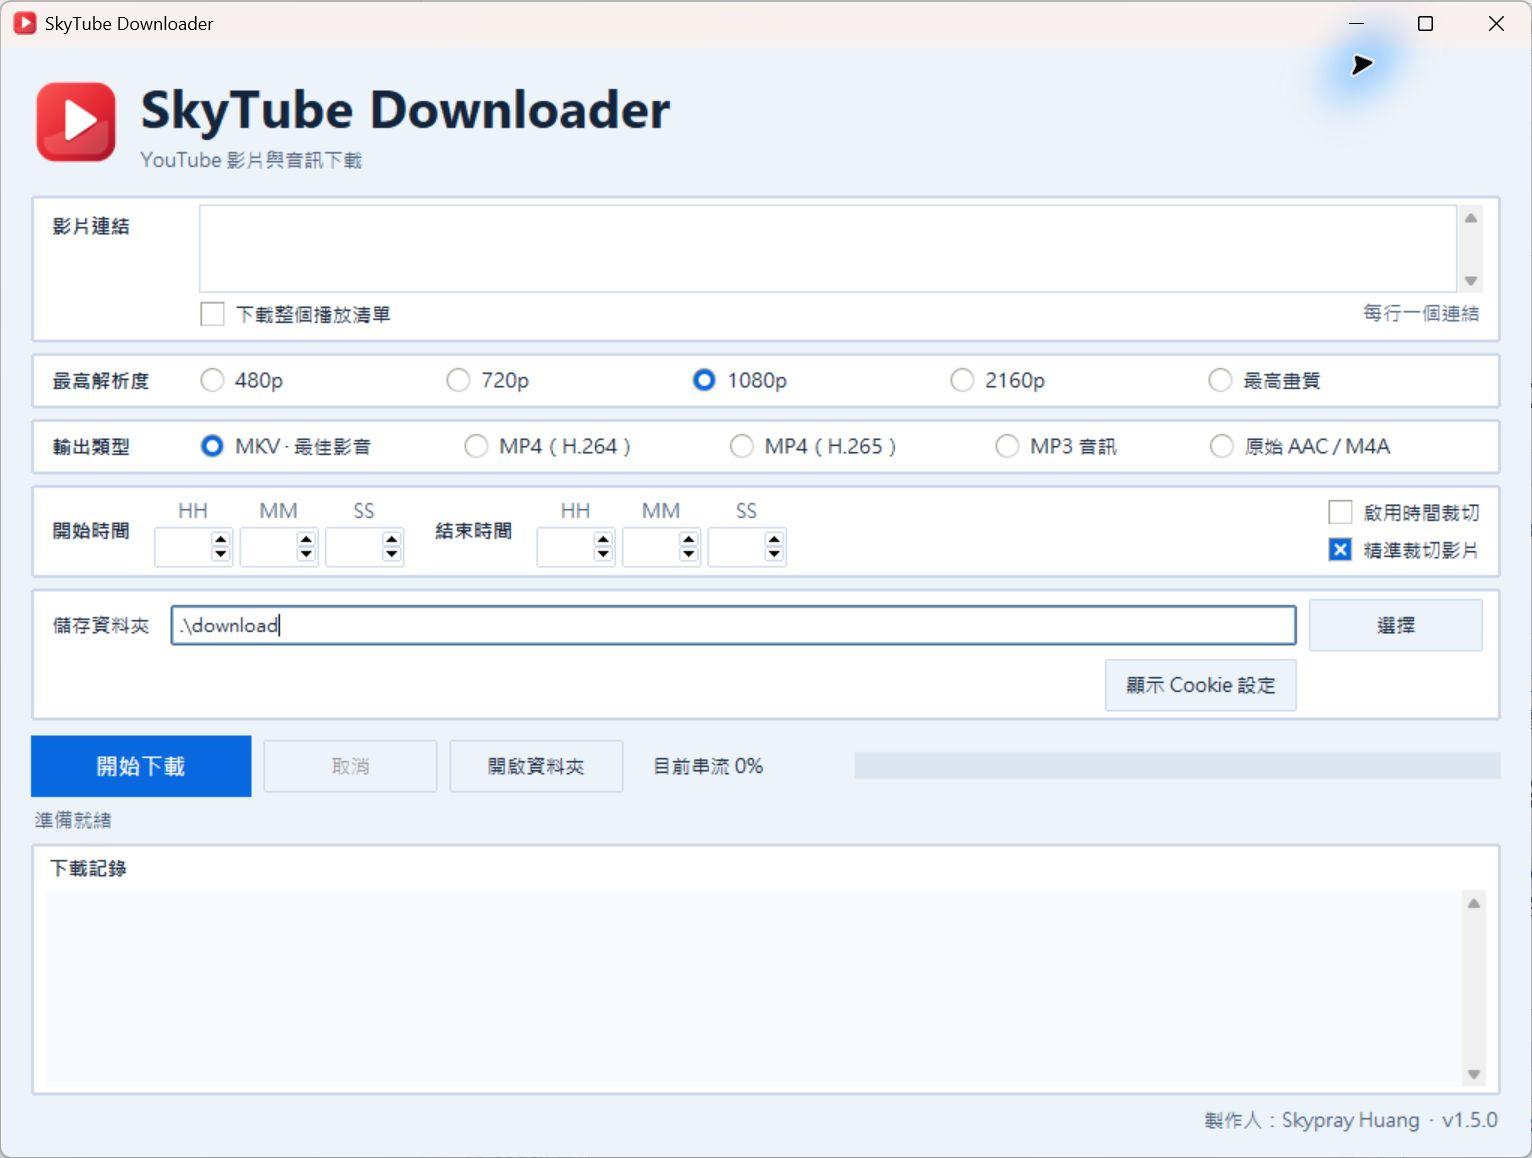
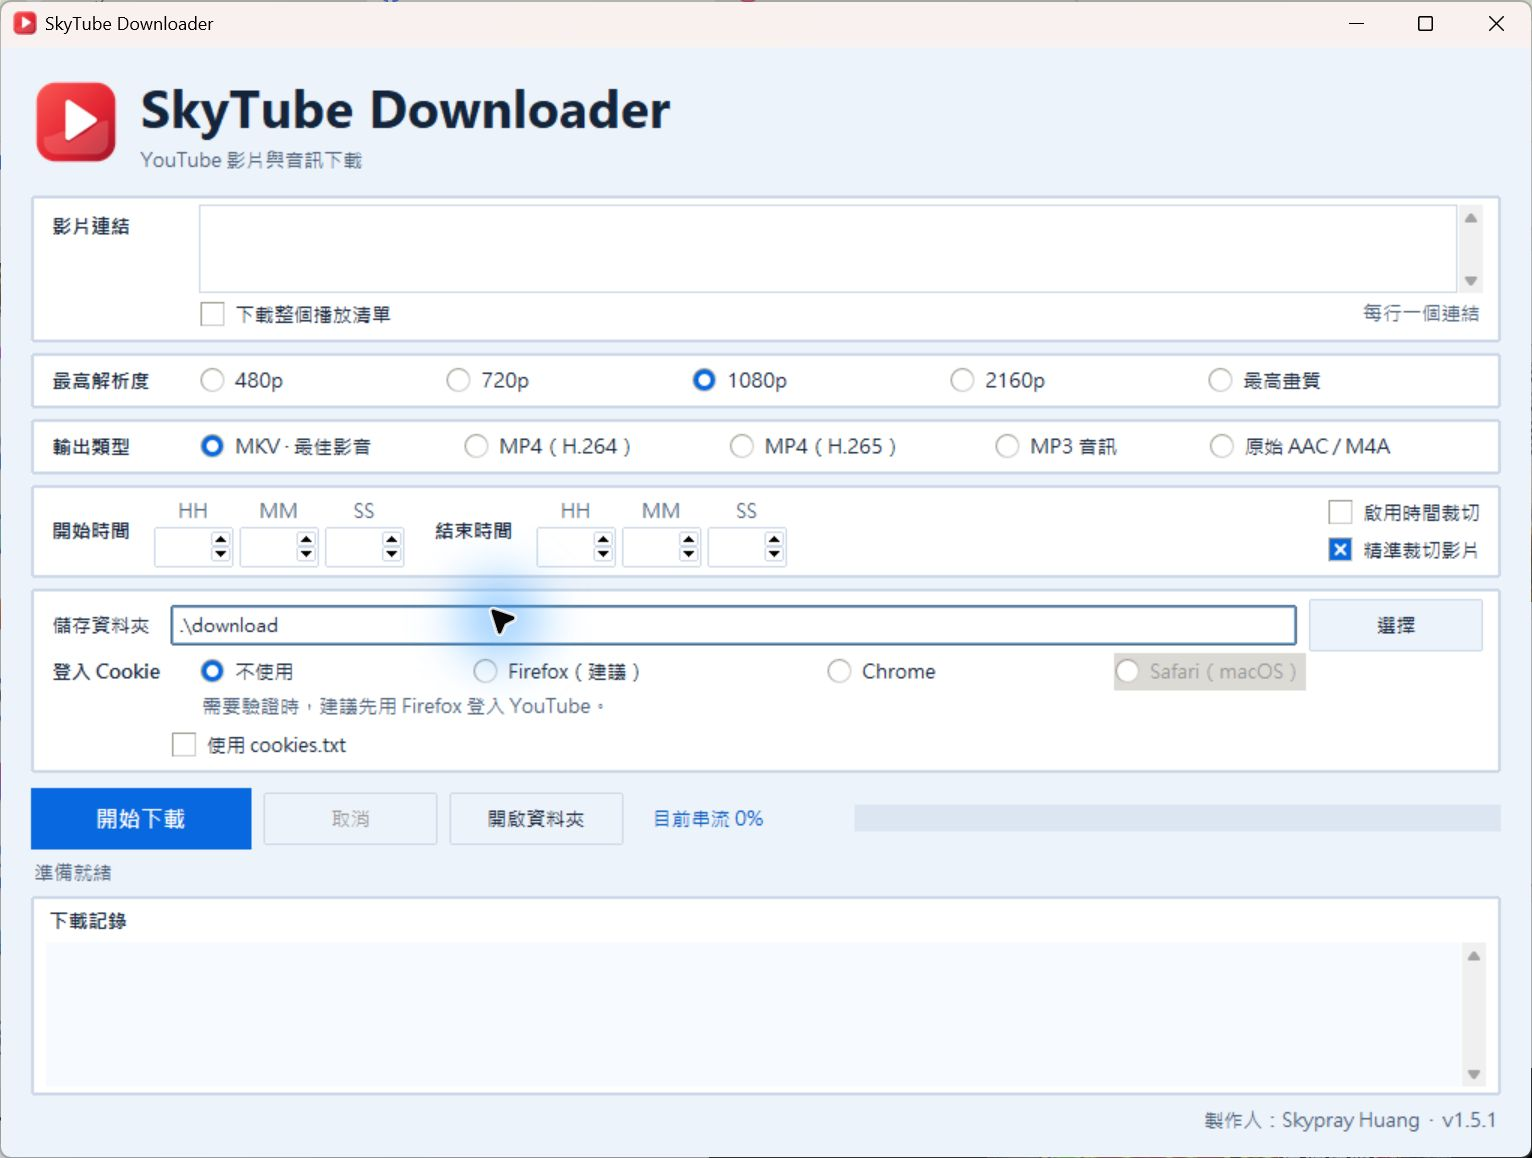
Clarify browser cookie controls and color download messages

diff --git a/app.py b/app.py
@@ -71,6 +71,9 @@ class App(tk.Tk):
         style.configure('Hint.TLabel', foreground=muted)
         style.configure('Title.Page.TLabel', font=('Segoe UI', 26, 'bold'))
         style.configure('Sub.Page.TLabel', foreground=muted)
+        style.configure('Progress.Page.TLabel', foreground='#0759c4')
+        style.configure('Error.Page.TLabel', foreground='#b4232c')
+        style.configure('Success.Page.TLabel', foreground='#147745')
         style.configure('Field.TLabel', font=('Microsoft JhengHei UI', 10, 'bold'))
         style.configure('Panel.TFrame', relief='solid', borderwidth=1, bordercolor=line)
         style.configure('TButton', padding=(11, 6), background='#edf3fa',
@@ -161,25 +164,32 @@ class App(tk.Tk):
 
         storage = card(5)
         self.output = self.field(storage, 0, '儲存資料夾', str(BASE / 'download'), 'folder')
-        options = ttk.Frame(storage)
-        options.grid(row=2, column=0, columnspan=3, sticky='ew')
-        options.columnconfigure(1, weight=1)
-        self.browser = self.choice(options, 0, '登入 Cookie', ('不使用', 'firefox', 'chrome', 'edge'), '不使用')
-        self.cookie = self.field(options, 1, '或 cookies.txt', '', 'file')
-        ttk.Label(options, text='Cookie 檔優先，並且只在本機讀取。', style='Hint.TLabel').grid(
-            row=2, column=1, sticky='w', pady=(2, 0))
-        options.grid_remove()
+        browser_options = ttk.Frame(storage)
+        browser_options.grid(row=1, column=0, columnspan=3, sticky='ew')
+        browser_options.columnconfigure(1, weight=1)
+        safari_label = 'Safari' if sys.platform == 'darwin' else 'Safari（macOS）'
+        self.browser = self.radio_row(browser_options, '登入 Cookie', [
+            ('不使用', ''), ('Firefox（建議）', 'firefox'),
+            ('Chrome', 'chrome'), (safari_label, 'safari')], '',
+            disabled=() if sys.platform == 'darwin' else ('safari',))
+        ttk.Label(browser_options, text='需要驗證時，建議先用 Firefox 登入 YouTube。',
+                  style='Hint.TLabel').grid(row=1, column=1, sticky='w', pady=(0, 3))
 
-        def toggle_cookie():
-            if options.winfo_ismapped():
-                options.grid_remove()
-                cookie_toggle.configure(text='顯示 Cookie 設定')
+        cookie_controls = ttk.Frame(storage)
+        cookie_controls.grid(row=3, column=0, columnspan=3, sticky='ew')
+        cookie_controls.columnconfigure(1, weight=1)
+        self.cookie = self.field(cookie_controls, 0, 'Cookie 檔案', '', 'file')
+        cookie_controls.grid_remove()
+        self.use_cookie_file = tk.BooleanVar()
+
+        def toggle_cookie_file():
+            if self.use_cookie_file.get():
+                cookie_controls.grid()
             else:
-                options.grid()
-                cookie_toggle.configure(text='收合 Cookie 設定')
+                cookie_controls.grid_remove()
 
-        cookie_toggle = ttk.Button(storage, text='顯示 Cookie 設定', command=toggle_cookie)
-        cookie_toggle.grid(row=1, column=1, sticky='e', pady=(4, 0))
+        ttk.Checkbutton(storage, text='使用 cookies.txt', variable=self.use_cookie_file,
+                        command=toggle_cookie_file).grid(row=2, column=1, sticky='w')
 
         actions = ttk.Frame(main, style='Page.TFrame')
         actions.grid(row=6, sticky='ew', pady=(3, 4))
@@ -190,13 +200,14 @@ class App(tk.Tk):
         self.cancel.grid(row=0, column=1, padx=(0, 8))
         ttk.Button(actions, text='開啟資料夾', command=self.open_folder).grid(row=0, column=2)
         self.percent = tk.StringVar(value='目前串流 0%')
-        ttk.Label(actions, textvariable=self.percent, width=16, style='Page.TLabel').grid(
+        ttk.Label(actions, textvariable=self.percent, width=16, style='Progress.Page.TLabel').grid(
             row=0, column=3, padx=(17, 5), sticky='w')
         self.bar = ttk.Progressbar(actions, maximum=100)
         self.bar.grid(row=0, column=4, sticky='ew')
         self.status = tk.StringVar(value='準備就緒')
-        ttk.Label(main, textvariable=self.status, style='Sub.Page.TLabel', wraplength=850).grid(
-            row=7, sticky='w', pady=(1, 5))
+        self.status_label = ttk.Label(main, textvariable=self.status, style='Sub.Page.TLabel',
+                                      wraplength=850)
+        self.status_label.grid(row=7, sticky='w', pady=(1, 5))
 
         log_card = ttk.Frame(main, padding=(10, 6), style='Panel.TFrame')
         log_card.grid(row=8, sticky='nsew')
@@ -206,12 +217,15 @@ class App(tk.Tk):
         self.log = ScrolledText(log_card, height=4, wrap='word', font=('Consolas', 10),
                                 relief='flat', padx=5, pady=4, background='#f7faff',
                                 foreground=ink, state='disabled')
+        for tag, color in (('progress', '#0759c4'), ('error', '#b4232c'),
+                           ('warning', '#865700'), ('success', '#147745')):
+            self.log.tag_configure(tag, foreground=color)
         self.log.grid(row=1, sticky='nsew', pady=(4, 0))
-        ttk.Label(main, text='製作人：Skypray Huang  ·  v1.5.0', style='Sub.Page.TLabel').grid(
+        ttk.Label(main, text='製作人：Skypray Huang  ·  v1.5.1', style='Sub.Page.TLabel').grid(
             row=9, sticky='e', pady=(6, 0))
         self.after(100, self.poll)
 
-    def radio_row(self, frame, label, options, default):
+    def radio_row(self, frame, label, options, default, *, disabled=()):
         var = tk.StringVar(value=default)
         ttk.Label(frame, text=label, style='Field.TLabel', width=12).grid(
             row=0, column=0, sticky='w')
@@ -219,8 +233,10 @@ class App(tk.Tk):
         row.grid(row=0, column=1, sticky='ew')
         for column, (text, value) in enumerate(options):
             row.columnconfigure(column, weight=1)
-            ttk.Radiobutton(row, text=text, value=value, variable=var).grid(
-                row=0, column=column, sticky='w', padx=(0, 8))
+            button = ttk.Radiobutton(row, text=text, value=value, variable=var)
+            if value in disabled:
+                button.state(['disabled'])
+            button.grid(row=0, column=column, sticky='w', padx=(0, 8))
         return var
 
 
@@ -234,12 +250,6 @@ class App(tk.Tk):
                 if value:
                     var.set(value)
             ttk.Button(frame, text='選擇', command=choose).grid(row=row, column=2, padx=(8, 0))
-        return var
-
-    def choice(self, frame, row, label, options, default):
-        var = tk.StringVar(value=default)
-        ttk.Label(frame, text=label).grid(row=row, column=0, sticky='w', pady=5)
-        ttk.Combobox(frame, values=options, textvariable=var, state='readonly').grid(row=row, column=1, sticky='ew', pady=5)
         return var
 
     def time_field(self, frame, column, label):
@@ -270,9 +280,16 @@ class App(tk.Tk):
     def sync_crop(self, *_):
         self.crop.set(any(value.get().strip() for value in (*self.start, *self.end)))
 
-    def append(self, line):
+    def append(self, line, tag=''):
+        if not tag:
+            if line.startswith('ERROR:'):
+                tag = 'error'
+            elif line.startswith('WARNING:'):
+                tag = 'warning'
+            elif line.startswith('FILE:'):
+                tag = 'success'
         self.log.configure(state='normal')
-        self.log.insert('end', f'[{time.strftime("%H:%M:%S")}] {line}\n')
+        self.log.insert('end', f'[{time.strftime("%H:%M:%S")}] {line}\n', tag)
         if int(self.log.index('end-1c').split('.')[0]) > 1500:
             self.log.delete('1.0', '300.0')
         self.log.see('end')
@@ -287,9 +304,9 @@ class App(tk.Tk):
             deno = binary('deno')
             if not ffmpeg or not deno:
                 raise ValueError('內嵌的 FFmpeg 或 Deno 無法載入，請重新取得完整程式。')
-            cookie = self.cookie.get().strip()
-            if cookie and not Path(cookie).is_file():
-                raise ValueError('找不到 Cookie 檔案。')
+            cookie = self.cookie.get().strip() if self.use_cookie_file.get() else ''
+            if self.use_cookie_file.get() and not Path(cookie).is_file():
+                raise ValueError('請選擇有效的 cookies.txt 檔案。')
             out = self.output.get().strip()
             if not out:
                 raise ValueError('請選擇儲存資料夾。')
@@ -301,7 +318,7 @@ class App(tk.Tk):
             for url in urls:
                 args = arguments(url, self.quality.get(), self.mode.get(),
                     start, end, self.precise.get(), out, str(Path(ffmpeg).parent), cookie,
-                    '' if self.browser.get() == '不使用' else self.browser.get(),
+                    self.browser.get(),
                     self.fallback.get(), deno, self.playlist.get())
                 args[args.index('-o') + 1] = output_template(
                     url, self.playlist.get(), uuid.uuid4().hex[:10])
@@ -315,9 +332,10 @@ class App(tk.Tk):
         self.go.configure(state='disabled')
         self.cancel.configure(state='normal')
         self.set_progress(0)
+        self.cookie_hint_shown = False
         self.batch_prefix = f'共 {len(commands)} 個連結'
         self.urls.configure(state='disabled')
-        self.status.set(self.batch_prefix + '；正在取得影片資訊…')
+        self.set_status(self.batch_prefix + '；正在取得影片資訊…', 'Progress')
         self.append(f'開始批次：{len(commands)} 個連結（已移除完全相同的重複連結）。各連結依序下載；百分比為目前串流進度。')
         threading.Thread(target=self.run, args=(commands,), daemon=True).start()
 
@@ -395,13 +413,20 @@ class App(tk.Tk):
     def stop(self):
         self.stop_event.set()
         self.cancel.configure(state='disabled')
-        self.status.set('正在取消…')
+        self.set_status('正在取消…')
         threading.Thread(target=self.kill, daemon=True).start()
 
-    def set_progress(self, percent):
+    def set_status(self, message, tone='Sub'):
+        self.status.set(message)
+        self.status_label.configure(style=f'{tone}.Page.TLabel')
+
+    def set_progress(self, percent, *, log=False):
         percent = max(0, min(100, percent))
+        previous = float(self.bar['value'])
         self.bar['value'] = percent
-        self.percent.set(f'目前串流 {percent:.0f}%')
+        self.percent.set(f'目前串流 {int(percent)}%')
+        if log and (int(percent // 10) > int(previous // 10) or previous == 100 > percent):
+            self.append(f'下載進度：目前串流 {int(percent)}%', 'progress')
 
     def poll(self):
         while True:
@@ -415,33 +440,44 @@ class App(tk.Tk):
                 self.go.configure(state='normal')
                 self.cancel.configure(state='disabled')
                 if self.stop_event.is_set():
-                    self.status.set(f'已取消；已產生 {value["files"]} 個檔案。下載資料夾可能留有未完成檔案。')
+                    self.set_status(f'已取消；已產生 {value["files"]} 個檔案。下載資料夾可能留有未完成檔案。')
                 elif value['failed'] == 0:
                     self.set_progress(100)
-                    self.status.set(f'批次完成：{value["completed"]}/{value["total"]} 個連結成功，已產生 {value["files"]} 個檔案。路徑見 FILE 訊息。')
+                    self.set_status(f'批次完成：{value["completed"]}/{value["total"]} 個連結成功，已產生 {value["files"]} 個檔案。路徑見 FILE 訊息。', 'Success')
                 else:
                     self.set_progress(0)
-                    self.status.set(f'批次結束：{value["completed"]} 個連結成功、{value["failed"]} 個未完整成功，已產生 {value["files"]} 個檔案。請查看 ERROR。')
-                self.append(self.status.get())
+                    self.set_status(f'批次結束：{value["completed"]} 個連結成功、{value["failed"]} 個未完整成功，已產生 {value["files"]} 個檔案。請查看紅色錯誤。', 'Error')
+                if self.stop_event.is_set():
+                    self.append(self.status.get())
+                else:
+                    self.append(self.status.get(), 'error' if value['failed'] else 'success')
             elif kind == 'link':
                 self.batch_prefix = f'連結 {value[0]}/{value[1]}'
+                self.cookie_hint_shown = False
                 self.set_progress(0)
-                self.status.set(self.batch_prefix + '；正在取得影片資訊…')
+                self.set_status(self.batch_prefix + '；正在取得影片資訊…', 'Progress')
             elif value.startswith('PROGRESS:'):
                 match = re.search(r'(\d+(?:\.\d+)?)%', value)
                 if match:
-                    self.set_progress(float(match.group(1)))
+                    self.set_progress(float(match.group(1)), log=True)
             elif value.startswith('PROCESS:started:') and not value.endswith(':MoveFiles'):
-                self.status.set(self.batch_prefix + '；正在處理影音…')
+                self.set_status(self.batch_prefix + '；正在處理影音…', 'Progress')
             elif not value.startswith('PROCESS:'):
                 self.append(value)
-                if value.startswith('ITEM:'):
+                if value.startswith('ERROR:'):
+                    self.set_status(self.batch_prefix + '；下載失敗，請查看紅色錯誤。', 'Error')
+                    if not self.cookie_hint_shown and any(
+                            marker in value.lower() for marker in (
+                                'cookie', 'dpapi', 'sign in to confirm')):
+                        self.append('登入提示：建議在 Firefox 登入 YouTube，再將「登入 Cookie」選為 Firefox。', 'error')
+                        self.cookie_hint_shown = True
+                elif value.startswith('ITEM:'):
                     self.set_progress(0)
-                    self.status.set(self.batch_prefix + '；正在下載：' + value[5:])
+                    self.set_status(self.batch_prefix + '；正在下載：' + value[5:], 'Progress')
                 elif value.startswith('[SkyTubeMP4] '):
-                    self.status.set(self.batch_prefix + ' · ' + value.removeprefix('[SkyTubeMP4] '))
+                    self.set_status(self.batch_prefix + ' · ' + value.removeprefix('[SkyTubeMP4] '), 'Progress')
                 elif value.startswith(('[Merger]', '[ExtractAudio]', '[VideoRemuxer]', '[VideoConvertor]')):
-                    self.status.set(self.batch_prefix + '；正在處理影音，請稍候…')
+                    self.set_status(self.batch_prefix + '；正在處理影音，請稍候…', 'Progress')
         self.after(100, self.poll)
 
     def open_folder(self):

diff --git a/README.md b/README.md
@@ -53,7 +53,7 @@ Windows SmartScreen 可能會對沒有程式碼簽章的新應用顯示警告。
 
 ## Cookie 與 YouTube 限制
 
-預設不讀取登入資料。若影片需要登入，可明確選擇 Firefox、Chrome、Edge，或 Netscape 格式的 `cookies.txt`。Cookie 只在本機處理；選定的檔案會先複製到暫存目錄，避免 yt-dlp 回寫原檔。
+預設不讀取登入資料。若 YouTube 要求登入，建議先在 Firefox 登入 YouTube，再於「登入 Cookie」選 Firefox。也可選 Chrome，或勾選「使用 cookies.txt」指定 Netscape 格式的檔案。Safari 僅支援 macOS。Cookie 只在本機處理；選定的檔案會先複製到暫存目錄，避免 yt-dlp 回寫原檔。
 
 Cookie 不保證能解決 HTTP 403、機器人驗證、PO Token 或區域限制。YouTube 介面與驗證方式會改變，遇到問題時可先更新 yt-dlp 並重新建置。請勿把 cookies.txt 提交至 GitHub 或附加到 Issue。
 
@@ -106,5 +106,5 @@ dist\SkyTubeDownloader\
 YouTube 是 Google LLC 的商標。本專案與 YouTube 無關，也未獲其背書。
 
 製作人：Skypray Huang<br>
-版本：1.5.0<br>
+版本：1.5.1<br>
 最新日期：2026/11/19

diff --git a/CHANGELOG.md b/CHANGELOG.md
@@ -2,6 +2,11 @@
 
 所有重要變更都記錄在此文件。本專案版本採用 Semantic Versioning。
 
+## [1.5.1] - 2026-11-19
+
+- 固定顯示 Cookie 瀏覽器選項，並建議優先使用 Firefox。
+- 以藍色顯示下載進度、紅色標示錯誤，登入相關失敗會提示 Firefox 的使用方式。
+
 ## [1.5.0] - 2026-11-19
 
 - 播放清單預設關閉，避免影片網址附帶清單時意外下載整份。
